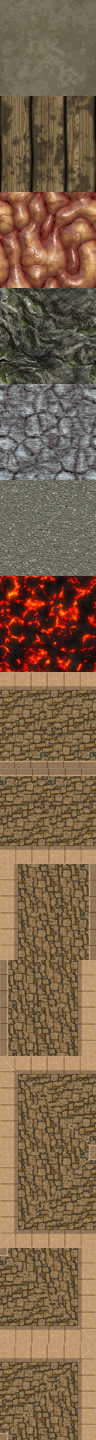
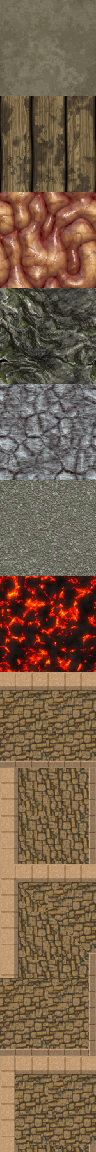
fixed walls so they don't look fucked

diff --git a/GameProject/GameProject/environment.cpp b/GameProject/GameProject/environment.cpp
@@ -248,44 +248,74 @@ void EnvironmentHandler::checkWalls( )
 			}
 			if( right && below && !above && !left )
 			{
-				subRect.top = ( TILESIZE * 11 );
+				subRect.top = ( TILESIZE * 9 );
 				m_sprites[i].setTextureRect( subRect );
 			}
 			else if( right && !below && above && !left )
 			{
-				subRect.top = ( TILESIZE * 12 );
+				subRect.top = ( TILESIZE * 7 );
 				m_sprites[i].setTextureRect( subRect );
 			}
 			else if( !right && !below && above && left )
 			{
-				subRect.top = ( TILESIZE * 13 );
+				subRect.top = ( TILESIZE * 10 );
 				m_sprites[i].setTextureRect(subRect);
 			}
 			else if( !right && below && !above && left )
 			{
-				subRect.top = (TILESIZE * 14);
+				subRect.top = ( TILESIZE * 8 );
 				m_sprites[i].setTextureRect(subRect);
 			}
 			else if( !right && below && above && !left )
 			{
-				if( i % m_iHorizontalBitmapSize == 0 )
-				{
-					subRect.top = ( TILESIZE * 9 );
-					m_sprites[i].setTextureRect( subRect );
-				}
-				else if( i % m_iHorizontalBitmapSize == ( m_iHorizontalBitmapSize - 1 ) )
-				{
-					subRect.top = ( TILESIZE * 10 );
-					m_sprites[i].setTextureRect( subRect );
-				}
-			}
-			else if( right && !below && !above && left )
-			{
-				if( i >= m_iHorizontalBitmapSize )
+				//if( i % m_iHorizontalBitmapSize == 0 )
 				{
 					subRect.top = ( TILESIZE * 8 );
 					m_sprites[i].setTextureRect( subRect );
 				}
+				//else if( i % m_iHorizontalBitmapSize == ( m_iHorizontalBitmapSize - 1 ) )
+				//{
+				//	subRect.top = ( TILESIZE * 10 );
+				//	m_sprites[i].setTextureRect( subRect );
+				//}
+			}
+			//else if( right && !below && !above && left )
+			//{
+			//	if( i >= m_iHorizontalBitmapSize )
+			//	{
+			//		subRect.top = ( TILESIZE * 8 );
+			//		m_sprites[i].setTextureRect( subRect );
+			//	}
+			//}
+			else if( right && above && below && !left )
+			{
+				subRect.top = ( TILESIZE * 11 );
+				m_sprites[i].setTextureRect(subRect);
+			}
+			else if( !right && above && below && left )
+			{
+				subRect.top = ( TILESIZE * 8 );
+				m_sprites[i].setTextureRect(subRect);
+			}
+			else if( right && !above && below && left )
+			{
+				subRect.top = ( TILESIZE * 11 );
+				m_sprites[i].setTextureRect(subRect);
+			}
+			else if( right && above && !below && left )
+			{
+				subRect.top = ( TILESIZE * 7 );
+				m_sprites[i].setTextureRect(subRect);
+			}
+			else if( right && above && below && left )
+			{
+				subRect.top = ( TILESIZE * 11 );
+				m_sprites[i].setTextureRect(subRect);
+			}
+			else if( ( !right && above && !below && !left ) || ( !right && !above && below && !left ) )
+			{
+				subRect.top = ( TILESIZE * 8 );
+				m_sprites[i].setTextureRect(subRect);
 			}
 		}
 	}
